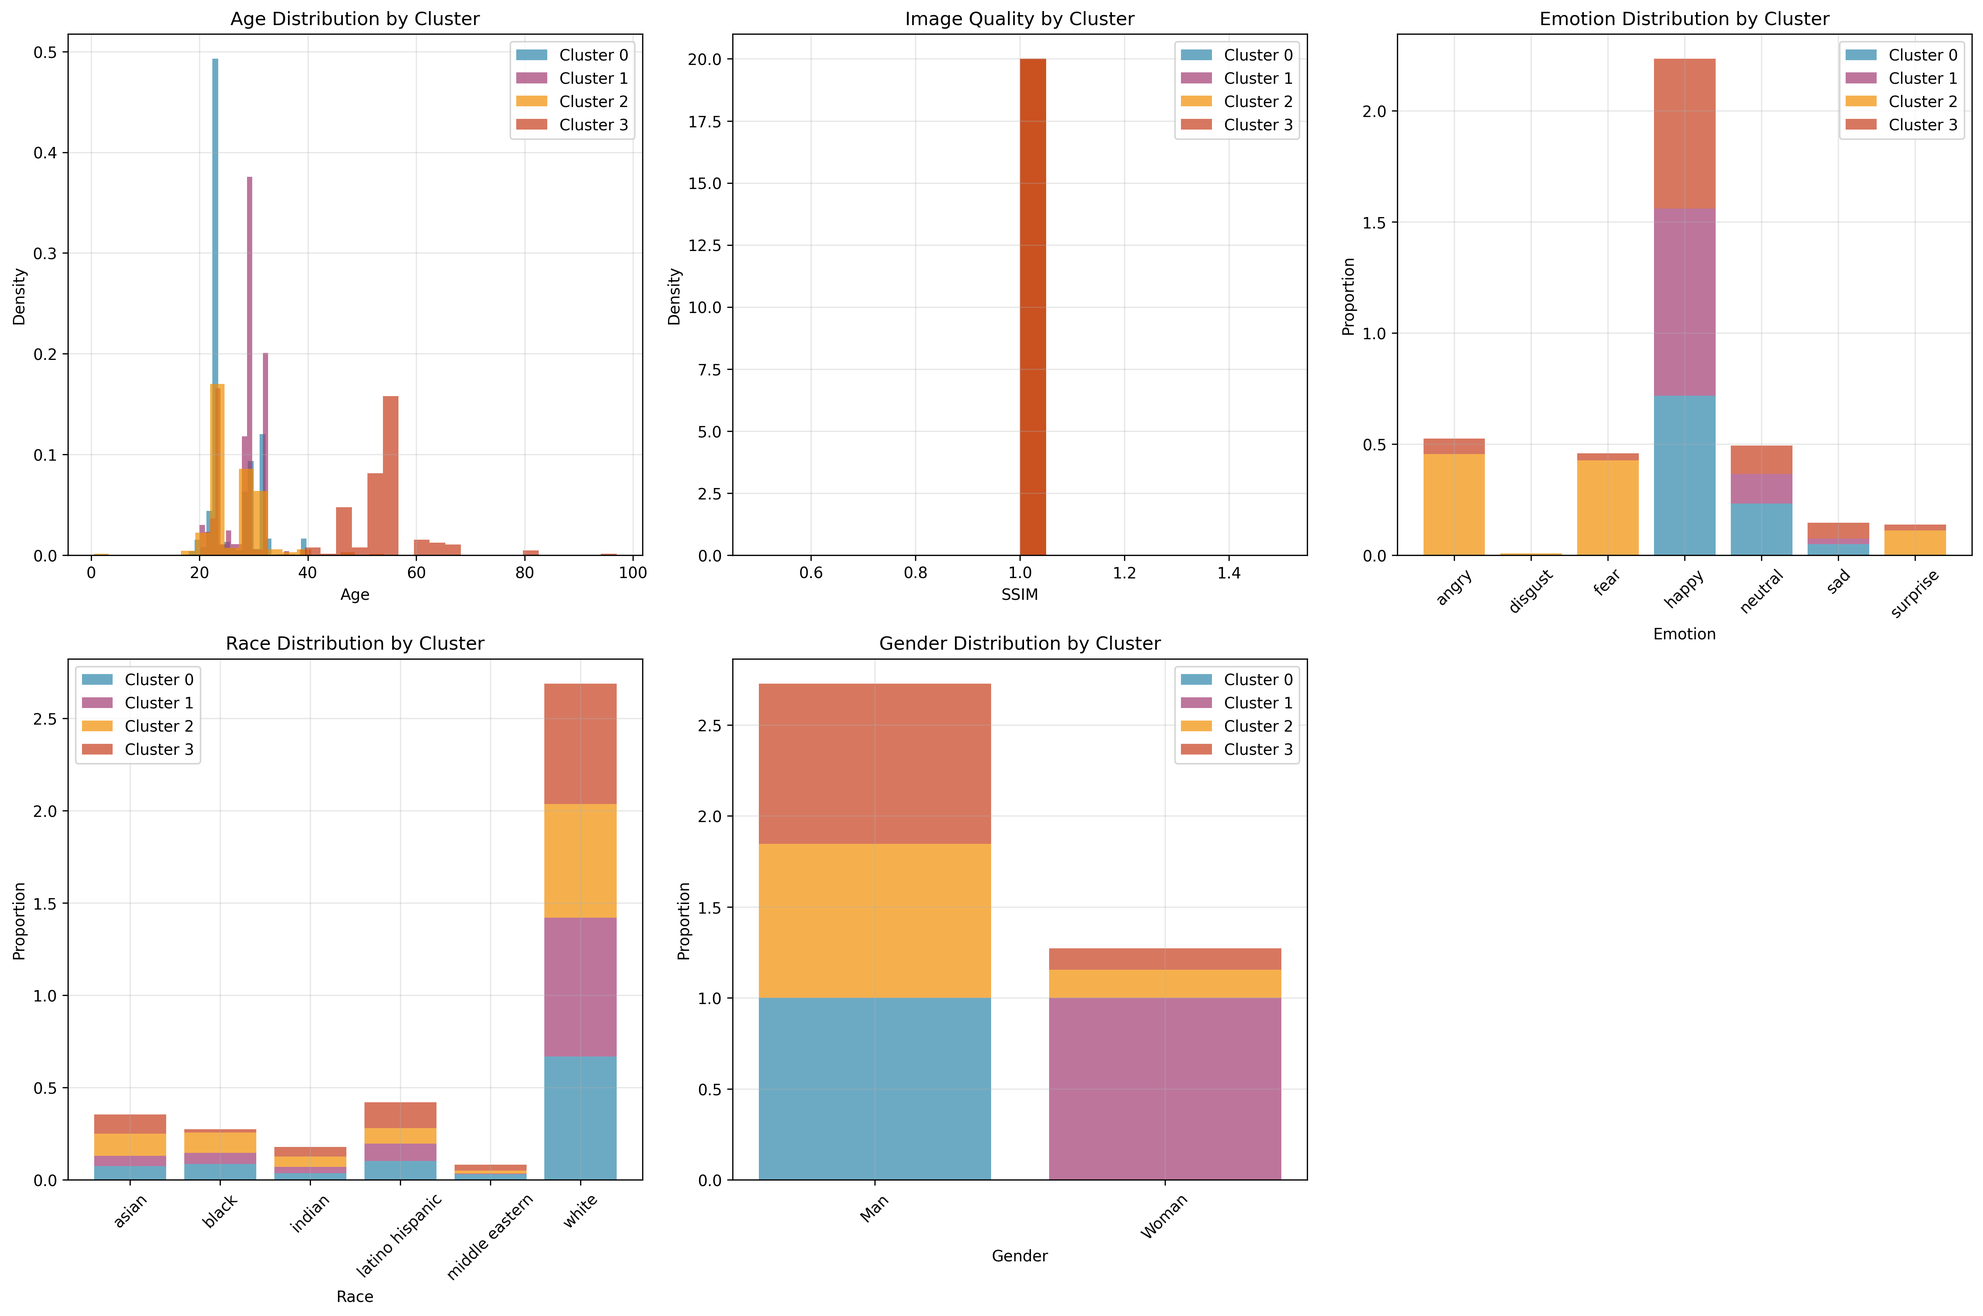
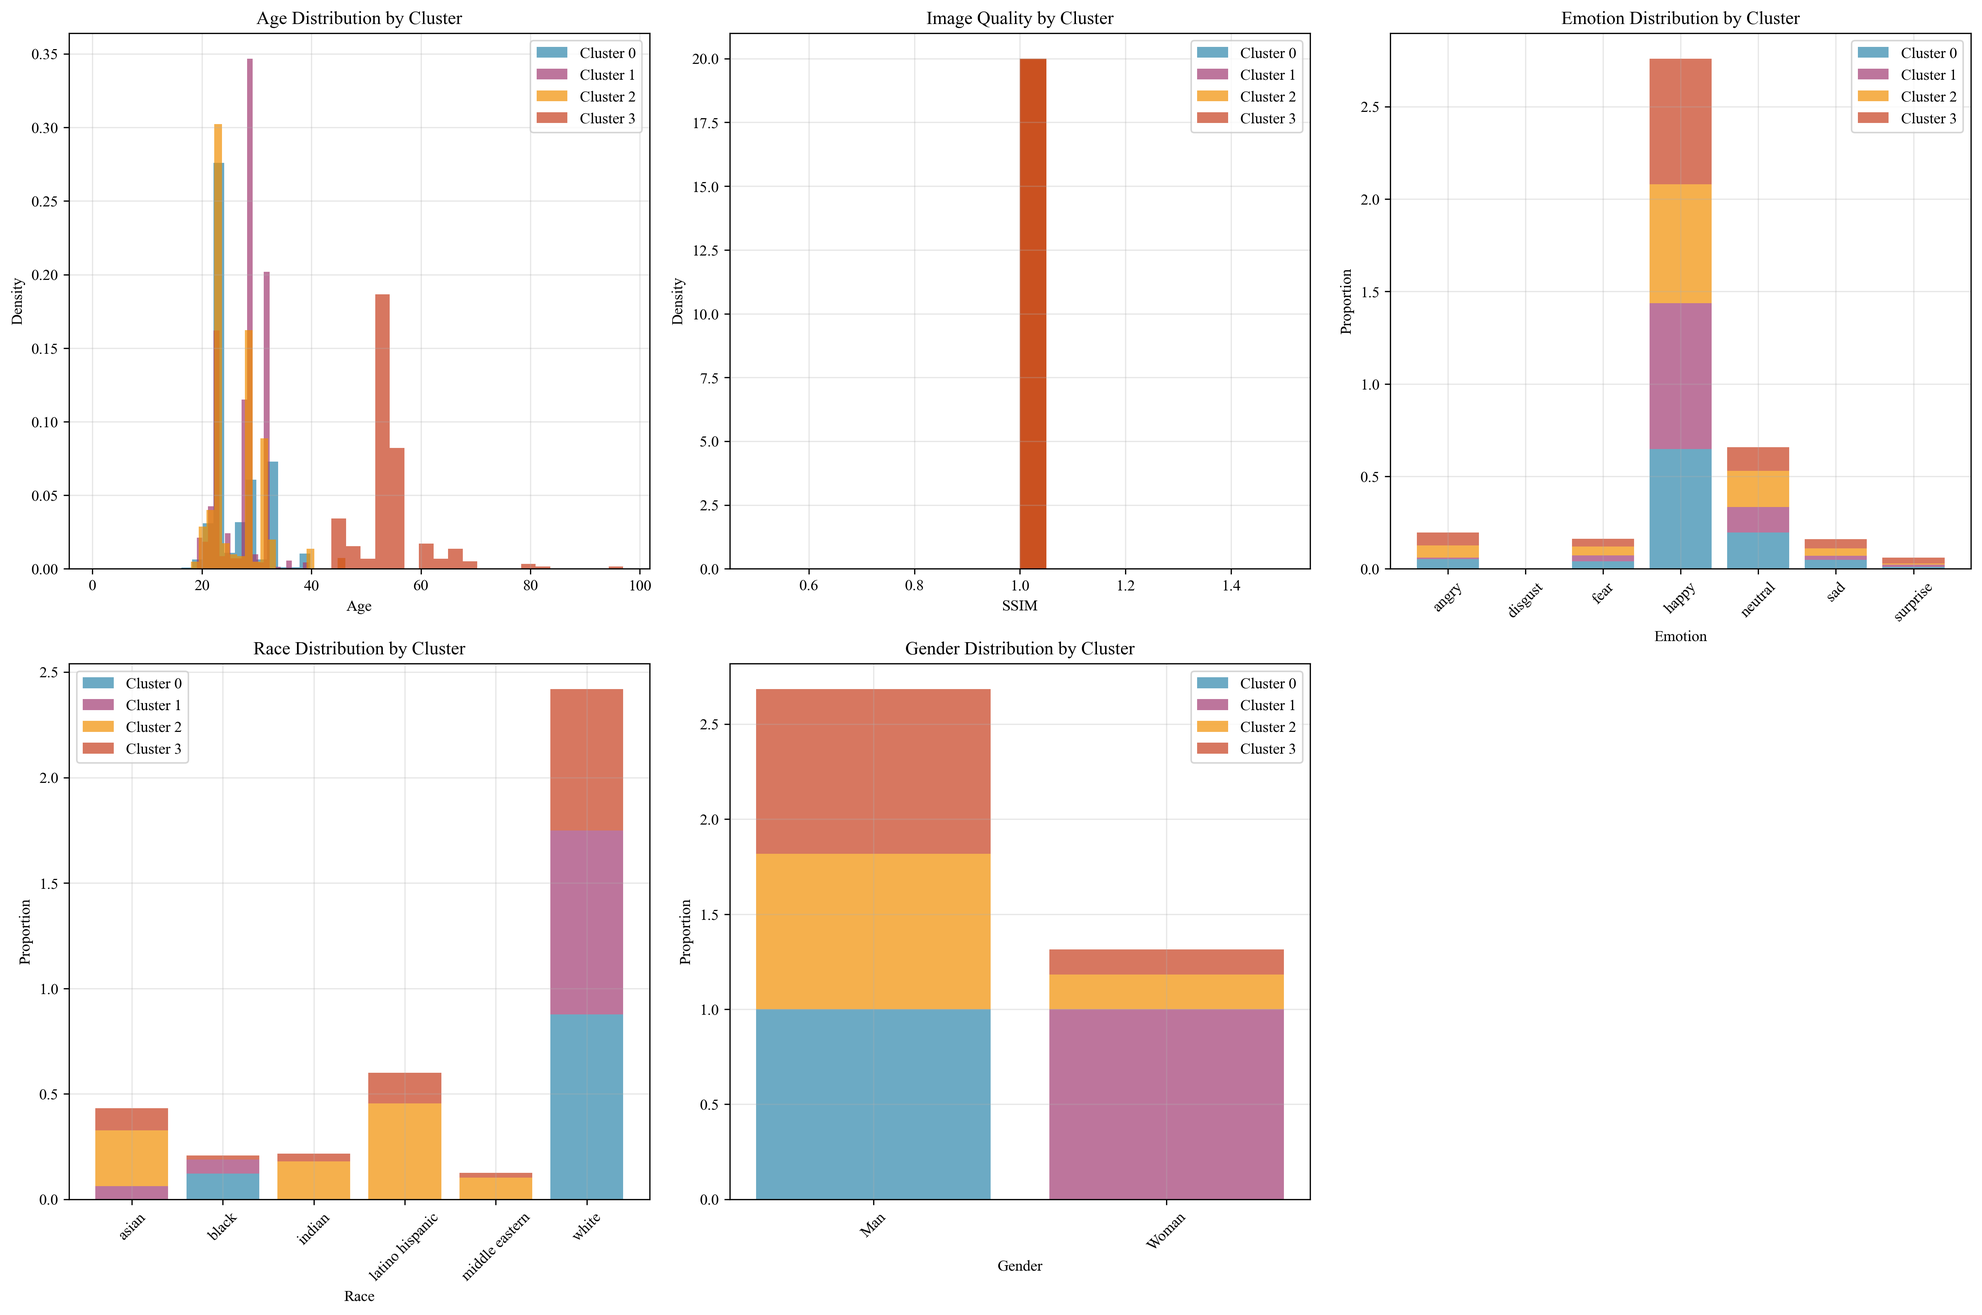
full failure case graph

diff --git a/failure_analysis/visualize_utility_distributions.py b/failure_analysis/visualize_utility_distributions.py
@@ -13,10 +13,17 @@ from sklearn.preprocessing import StandardScaler
 from sklearn.cluster import KMeans
 import sys
 
+# Set Times New Roman as default font
+plt.rcParams['font.family'] = 'Times New Roman'
+plt.rcParams['font.serif'] = 'Times New Roman'
+
 sys.path.append(os.path.dirname(os.path.dirname(os.path.abspath(__file__))))
 
 # Global color palette
 colors = ['#2E86AB', '#A23B72', '#F18F01', '#C73E1D']
+
+# Configurable label offset for categorical variables
+LABEL_Y_OFFSET = 8
 
 def load_data():
     """Load demographic data and failure cases."""
@@ -162,192 +169,166 @@ def calculate_significance_tests(combined_df):
     return significance_results
 
 def create_comprehensive_plot(combined_df, significance_results, output_dir):
-    """Create comprehensive distribution comparison plot."""
+    """Create single plot with all demographics side-by-side."""
     
     # Create output directory
     os.makedirs(output_dir, exist_ok=True)
     
-    # Set up the figure
-    fig = plt.figure(figsize=(20, 16))
+    # Set up figure - single large plot with dual y-axes
+    fig, ax = plt.subplots(figsize=(14, 6))
+    ax2 = ax.twinx()  # Create second y-axis for percentages
     
-    # Define subplot layout
-    gs = fig.add_gridspec(4, 3, hspace=0.3, wspace=0.3)
+    # Colors
+    failure_color = '#e74c3c'
+    full_color = '#3498db'
     
-    # 1. Age Distribution
-    ax1 = fig.add_subplot(gs[0, 0])
-    for dataset_type, color in zip(['Failure Cases', 'Full Dataset (Sample)'], colors[:2]):
-        data = combined_df[combined_df['dataset_type'] == dataset_type]['age']
-        ax1.hist(data, bins=30, alpha=0.7, label=dataset_type, color=color, density=True)
+    # Define demographic sections and their x-positions
+    sections = {
+        'Age': {'start': 1, 'width': 2},
+        'Emotion': {'start': 4, 'width': 7},
+        'Race': {'start': 12, 'width': 6},
+        'Gender': {'start': 19, 'width': 2}
+    }
     
-    # Add significance marker
-    sig_text = "***" if significance_results['age']['p_value'] < 0.001 else \
-               "**" if significance_results['age']['p_value'] < 0.01 else \
-               "*" if significance_results['age']['p_value'] < 0.05 else ""
-    ax1.text(0.95, 0.95, sig_text, transform=ax1.transAxes, 
-             fontsize=16, fontweight='bold', ha='right')
+    # 1. Age Distribution - use actual age values on left axis
+    age_failure = combined_df[combined_df['dataset_type'] == 'Failure Cases']['age']
+    age_full = combined_df[combined_df['dataset_type'] == 'Full Dataset (Sample)']['age']
     
-    ax1.set_xlabel('Age')
-    ax1.set_ylabel('Density')
-    ax1.set_title('Age Distribution')
-    ax1.legend()
-    ax1.grid(True, alpha=0.3)
+    # Create histograms for age (using actual age values)
+    age_x_failure = np.random.normal(sections['Age']['start'] - 0.3, 0.15, len(age_failure))
+    age_x_full = np.random.normal(sections['Age']['start'] + 0.7, 0.15, len(age_full))
     
-    # 2. SSIM Distribution
-    ax2 = fig.add_subplot(gs[0, 1])
-    for dataset_type, color in zip(['Failure Cases', 'Full Dataset (Sample)'], colors[:2]):
-        data = combined_df[combined_df['dataset_type'] == dataset_type]['ssim']
-        ax2.hist(data, bins=30, alpha=0.7, label=dataset_type, color=color, density=True)
+    ax.scatter(age_x_failure, age_failure, alpha=0.3, s=10, color=failure_color, label='Failure Cases')
+    ax.scatter(age_x_full, age_full, alpha=0.3, s=10, color=full_color, label='Full Dataset')
     
-    # Add significance marker
-    sig_text = "***" if significance_results['ssim']['p_value'] < 0.001 else \
-               "**" if significance_results['ssim']['p_value'] < 0.01 else \
-               "*" if significance_results['ssim']['p_value'] < 0.05 else ""
-    ax2.text(0.95, 0.95, sig_text, transform=ax2.transAxes, 
-             fontsize=16, fontweight='bold', ha='right')
-    
-    ax2.set_xlabel('SSIM')
-    ax2.set_ylabel('Density')
-    ax2.set_title('Image Quality (SSIM)')
-    ax2.legend()
-    ax2.grid(True, alpha=0.3)
-    
-    # 3. Emotion Distribution
-    ax3 = fig.add_subplot(gs[0, 2])
+    # 2. Emotion Distribution - use right axis for percentages
     emotion_order = ['happy', 'neutral', 'sad', 'angry', 'surprise', 'fear', 'disgust']
+    emotion_failure = combined_df[combined_df['dataset_type'] == 'Failure Cases']['emotion']
+    emotion_full = combined_df[combined_df['dataset_type'] == 'Full Dataset (Sample)']['emotion']
     
-    for i, dataset_type in enumerate(['Failure Cases', 'Full Dataset (Sample)']):
-        data = combined_df[combined_df['dataset_type'] == dataset_type]['emotion']
-        counts = data.value_counts(normalize=True).reindex(emotion_order, fill_value=0) * 100
+    failure_counts = emotion_failure.value_counts(normalize=True).reindex(emotion_order, fill_value=0)
+    full_counts = emotion_full.value_counts(normalize=True).reindex(emotion_order, fill_value=0)
+    
+    for i, emotion in enumerate(emotion_order):
+        x_pos = sections['Emotion']['start'] + i
+        failure_pct = failure_counts[emotion]
+        full_pct = full_counts[emotion]
         
-        x = np.arange(len(emotion_order))
-        width = 0.35
-        
-        ax3.bar(x + i*width, counts, width, label=dataset_type, 
-                color=colors[i], alpha=0.7)
+        # Side-by-side bars on right axis (percentages)
+        ax2.bar(x_pos - 0.2, failure_pct, 0.35, color=failure_color, alpha=0.7)
+        ax2.bar(x_pos + 0.2, full_pct, 0.35, color=full_color, alpha=0.7)
     
-    # Add significance marker
-    sig_text = "***" if significance_results['emotion']['p_value'] < 0.001 else \
-               "**" if significance_results['emotion']['p_value'] < 0.01 else \
-               "*" if significance_results['emotion']['p_value'] < 0.05 else ""
-    ax3.text(0.95, 0.95, sig_text, transform=ax3.transAxes, 
-             fontsize=16, fontweight='bold', ha='right')
-    
-    ax3.set_xlabel('Emotion')
-    ax3.set_ylabel('Percentage')
-    ax3.set_title('Emotion Distribution')
-    ax3.set_xticks(x + width/2)
-    ax3.set_xticklabels(emotion_order, rotation=45)
-    ax3.legend()
-    ax3.grid(True, alpha=0.3)
-    
-    # 4. Race Distribution
-    ax4 = fig.add_subplot(gs[1, 0])
+    # 3. Race Distribution - use right axis for percentages
     race_order = ['white', 'black', 'asian', 'latino hispanic', 'indian', 'middle eastern']
+    race_display_labels = ['White', 'Black', 'Asian', 'Hispanic', 'Indian', 'Middle\nEastern']
+    race_failure = combined_df[combined_df['dataset_type'] == 'Failure Cases']['race']
+    race_full = combined_df[combined_df['dataset_type'] == 'Full Dataset (Sample)']['race']
     
-    for i, dataset_type in enumerate(['Failure Cases', 'Full Dataset (Sample)']):
-        data = combined_df[combined_df['dataset_type'] == dataset_type]['race']
-        counts = data.value_counts(normalize=True).reindex(race_order, fill_value=0) * 100
+    failure_counts = race_failure.value_counts(normalize=True).reindex(race_order, fill_value=0)
+    full_counts = race_full.value_counts(normalize=True).reindex(race_order, fill_value=0)
+    
+    for i, race in enumerate(race_order):
+        x_pos = sections['Race']['start'] + i
+        failure_pct = failure_counts[race]
+        full_pct = full_counts[race]
         
-        x = np.arange(len(race_order))
-        width = 0.35
-        
-        ax4.bar(x + i*width, counts, width, label=dataset_type, 
-                color=colors[i], alpha=0.7)
+        # Side-by-side bars on right axis (percentages)
+        ax2.bar(x_pos - 0.2, failure_pct, 0.35, color=failure_color, alpha=0.7)
+        ax2.bar(x_pos + 0.2, full_pct, 0.35, color=full_color, alpha=0.7)
     
-    # Add significance marker
-    sig_text = "***" if significance_results['race']['p_value'] < 0.001 else \
-               "**" if significance_results['race']['p_value'] < 0.01 else \
-               "*" if significance_results['race']['p_value'] < 0.05 else ""
-    ax4.text(0.95, 0.95, sig_text, transform=ax4.transAxes, 
-             fontsize=16, fontweight='bold', ha='right')
-    
-    ax4.set_xlabel('Race')
-    ax4.set_ylabel('Percentage')
-    ax4.set_title('Race Distribution')
-    ax4.set_xticks(x + width/2)
-    ax4.set_xticklabels(race_order, rotation=45)
-    ax4.legend()
-    ax4.grid(True, alpha=0.3)
-    
-    # 5. Gender Distribution
-    ax5 = fig.add_subplot(gs[1, 1])
+    # 4. Gender Distribution - use right axis for percentages
     gender_order = ['Woman', 'Man']
+    gender_failure = combined_df[combined_df['dataset_type'] == 'Failure Cases']['gender']
+    gender_full = combined_df[combined_df['dataset_type'] == 'Full Dataset (Sample)']['gender']
     
-    for i, dataset_type in enumerate(['Failure Cases', 'Full Dataset (Sample)']):
-        data = combined_df[combined_df['dataset_type'] == dataset_type]['gender']
-        counts = data.value_counts(normalize=True).reindex(gender_order, fill_value=0) * 100
+    failure_counts = gender_failure.value_counts(normalize=True).reindex(gender_order, fill_value=0)
+    full_counts = gender_full.value_counts(normalize=True).reindex(gender_order, fill_value=0)
+    
+    for i, gender in enumerate(gender_order):
+        x_pos = sections['Gender']['start'] + i
+        failure_pct = failure_counts[gender]
+        full_pct = full_counts[gender]
         
-        x = np.arange(len(gender_order))
-        width = 0.35
-        
-        ax5.bar(x + i*width, counts, width, label=dataset_type, 
-                color=colors[i], alpha=0.7)
+        # Side-by-side bars on right axis (percentages)
+        ax2.bar(x_pos - 0.2, failure_pct, 0.35, color=failure_color, alpha=0.7)
+        ax2.bar(x_pos + 0.2, full_pct, 0.35, color=full_color, alpha=0.7)
     
-    # Add significance marker
-    sig_text = "***" if significance_results['gender']['p_value'] < 0.001 else \
-               "**" if significance_results['gender']['p_value'] < 0.01 else \
-               "*" if significance_results['gender']['p_value'] < 0.05 else ""
-    ax5.text(0.95, 0.95, sig_text, transform=ax5.transAxes, 
-             fontsize=16, fontweight='bold', ha='right')
+    # Add vertical separators
+    separator_positions = [2.5, 10.5, 17.5]
+    for pos in separator_positions:
+        ax.axvline(x=pos, color='gray', linestyle='--', alpha=0.5)
     
-    ax5.set_xlabel('Gender')
-    ax5.set_ylabel('Percentage')
-    ax5.set_title('Gender Distribution')
-    ax5.set_xticks(x + width/2)
-    ax5.set_xticklabels(gender_order)
-    ax5.legend()
-    ax5.grid(True, alpha=0.3)
+    # Add x-axis labels for each category (configurable positioning)
+    # Age labels (no specific labels needed, just range)
+    ax.text(sections['Age']['start'], LABEL_Y_OFFSET + 3, 'Age Values', fontsize=9, ha='center', fontname='Times New Roman')
     
-    # 6. Cluster Analysis - 2D visualization
-    ax6 = fig.add_subplot(gs[1, 2])
-    failure_data = combined_df[combined_df['dataset_type'] == 'Failure Cases']
+    # Emotion labels (configurable position)
+    for i, emotion in enumerate(emotion_order):
+        x_pos = sections['Emotion']['start'] + i
+        failure_pct = failure_counts.get(emotion, 0)  # Use get() with default 0
+        full_pct = full_counts.get(emotion, 0)  # Use get() with default 0
+        max_pct = max(failure_pct, full_pct)
+        # Position label at configurable height above the maximum bar height
+        label_y = max_pct + LABEL_Y_OFFSET  # Use configurable offset
+        ax.text(x_pos, label_y, emotion, fontsize=10, ha='center', rotation=45, fontname='Times New Roman')
     
-    # Create scatter plot of age vs ssim colored by cluster
-    scatter = ax6.scatter(failure_data['age'], failure_data['ssim'], 
-                         c=failure_data['cluster'], cmap='viridis', alpha=0.6)
-    ax6.set_xlabel('Age')
-    ax6.set_ylabel('SSIM')
-    ax6.set_title('Failure Cases: Age vs SSIM (Colored by Cluster)')
-    plt.colorbar(scatter, ax=ax6)
-    ax6.grid(True, alpha=0.3)
+    # Race labels (configurable position)
+    for i, race_display in enumerate(race_display_labels):
+        x_pos = sections['Race']['start'] + i
+        race_actual = race_order[i]
+        failure_pct = failure_counts.get(race_actual, 0)  # Use get() with default 0
+        full_pct = full_counts.get(race_actual, 0)  # Use get() with default 0
+        max_pct = max(failure_pct, full_pct)
+        # Position label at configurable height above the maximum bar height
+        label_y = max_pct + LABEL_Y_OFFSET  # Use configurable offset
+        ax.text(x_pos, label_y, race_display, fontsize=10, ha='center', rotation=45, fontname='Times New Roman')
     
-    # 7-10. Cluster distributions for each metric
-    metrics = ['age', 'ssim', 'emotion_encoded', 'race_encoded']
-    metric_names = ['Age', 'SSIM', 'Emotion', 'Race']
+    # Gender labels (configurable position)
+    for i, gender in enumerate(gender_order):
+        x_pos = sections['Gender']['start'] + i
+        failure_pct = failure_counts.get(gender, 0)  # Use get() with default 0
+        full_pct = full_counts.get(gender, 0)  # Use get() with default 0
+        max_pct = max(failure_pct, full_pct)
+        # Position label at configurable height above the maximum bar height
+        label_y = max_pct + LABEL_Y_OFFSET  # Use configurable offset
+        ax.text(x_pos, label_y + 3, gender, fontsize=10, ha='center', fontname='Times New Roman')
     
-    for i, (metric, name) in enumerate(zip(metrics, metric_names)):
-        ax = fig.add_subplot(gs[2 + i//2, i%2])
-        
-        failure_data = combined_df[combined_df['dataset_type'] == 'Failure Cases']
-        
-        # Create box plots for each cluster
-        cluster_data = []
-        cluster_labels = []
-        
-        for cluster_id in sorted(failure_data['cluster'].unique()):
-            cluster_mask = failure_data['cluster'] == cluster_id
-            cluster_values = failure_data[cluster_mask][metric]
-            cluster_data.append(cluster_values)
-            cluster_labels.append(f'Cluster {cluster_id}')
-        
-        bp = ax.boxplot(cluster_data, labels=cluster_labels, patch_artist=True)
-        
-        # Color the boxes
-        for patch, color in zip(bp['boxes'], colors):
-            patch.set_facecolor(color)
-            patch.set_alpha(0.7)
-        
-        ax.set_xlabel('Cluster')
-        ax.set_ylabel(name)
-        ax.set_title(f'{name} Distribution by Cluster')
-        ax.grid(True, alpha=0.3)
+    # Set axis properties
+    ax.set_xlim(0, 21)
+    ax.set_ylim(15, 80)  # Age range for left axis
+    ax.set_xlabel('')  # Remove x-axis label
+    ax.set_ylabel('Age (Years)', fontsize=12, color='black', fontname='Times New Roman')
+    ax.set_xticks([])  # Remove x-axis ticks
     
-    # Overall title
-    fig.suptitle('Utility Metric Distributions: Full Dataset vs Failure Cases\n' + 
-                 '*** p<0.001, ** p<0.01, * p<0.05', 
-                 fontsize=16, fontweight='bold')
+    # Configure right axis for percentages
+    ax2.set_ylim(0, 1.0)  # Percentage range for right axis
+    ax2.set_ylabel('Proportion', fontsize=12, color='black', fontname='Times New Roman')
+    ax2.set_xticks([])  # Remove x-axis ticks for right axis too
     
-    # Save the plot
+    # Add y-axis ticks for both axes
+    ax.set_yticks([20, 30, 40, 50, 60, 70, 80])
+    ax.set_yticklabels(['20', '30', '40', '50', '60', '70', '80'], color='black', fontname='Times New Roman')
+    
+    ax2.set_yticks([0, 0.2, 0.4, 0.6, 0.8, 1.0])
+    ax2.set_yticklabels(['0.0', '0.2', '0.4', '0.6', '0.8', '1.0'], color='black', fontname='Times New Roman')
+    
+    # Move headers inside the plot at Y=70 level, properly centered
+    ax.text(sections['Age']['start'] + 0.2, 70, 'AGE', fontsize=12, fontweight='bold', ha='center', color='black', fontname='Times New Roman')
+    ax.text(sections['Emotion']['start'] + 3, 70, 'EMOTION', fontsize=12, fontweight='bold', ha='center', color='black', fontname='Times New Roman')
+    ax.text(sections['Race']['start'] + 2.5, 70, 'RACE', fontsize=12, fontweight='bold', ha='center', color='black', fontname='Times New Roman')
+    ax.text(sections['Gender']['start'] + 0.5, 70, 'GENDER', fontsize=12, fontweight='bold', ha='center', color='black', fontname='Times New Roman')
+    
+    # Add legend
+    legend_elements = [
+        plt.Rectangle((0, 0), 1, 1, fc=failure_color, alpha=0.7, label='Failure Cases'),
+        plt.Rectangle((0, 0), 1, 1, fc=full_color, alpha=0.7, label='Full Dataset')
+    ]
+    ax.legend(handles=legend_elements, loc='upper right', prop={'family': 'Times New Roman'})
+    
+    # Add grid
+    ax.grid(True, alpha=0.2, axis='y')
+    
+    # Save plot
     plt.savefig(f"{output_dir}/comprehensive_utility_distributions.png", 
                 dpi=300, bbox_inches='tight')
     plt.close()
@@ -382,10 +363,10 @@ def create_cluster_analysis_plot(combined_df, cluster_centers, output_dir):
                 ax.hist(data, bins=20, alpha=0.7, label=f'Cluster {cluster_id}', 
                        color=colors[cluster_id % len(colors)], density=True)
             
-            ax.set_xlabel(display_name)
-            ax.set_ylabel('Density')
-            ax.set_title(title)
-            ax.legend()
+            ax.set_xlabel(display_name, fontname='Times New Roman')
+            ax.set_ylabel('Density', fontname='Times New Roman')
+            ax.set_title(title, fontname='Times New Roman')
+            ax.legend(prop={'family': 'Times New Roman'})
             ax.grid(True, alpha=0.3)
             
         else:
@@ -406,12 +387,12 @@ def create_cluster_analysis_plot(combined_df, cluster_centers, output_dir):
                        label=f'Cluster {j}', color=colors[j % len(colors)], alpha=0.7)
                 bottom += counts
             
-            ax.set_xlabel(display_name)
-            ax.set_ylabel('Proportion')
-            ax.set_title(title)
+            ax.set_xlabel(display_name, fontname='Times New Roman')
+            ax.set_ylabel('Proportion', fontname='Times New Roman')
+            ax.set_title(title, fontname='Times New Roman')
             ax.set_xticks(range(len(categories)))
-            ax.set_xticklabels(categories, rotation=45)
-            ax.legend()
+            ax.set_xticklabels(categories, rotation=45, fontname='Times New Roman')
+            ax.legend(prop={'family': 'Times New Roman'})
             ax.grid(True, alpha=0.3)
     
     # Remove the last subplot (6th)
